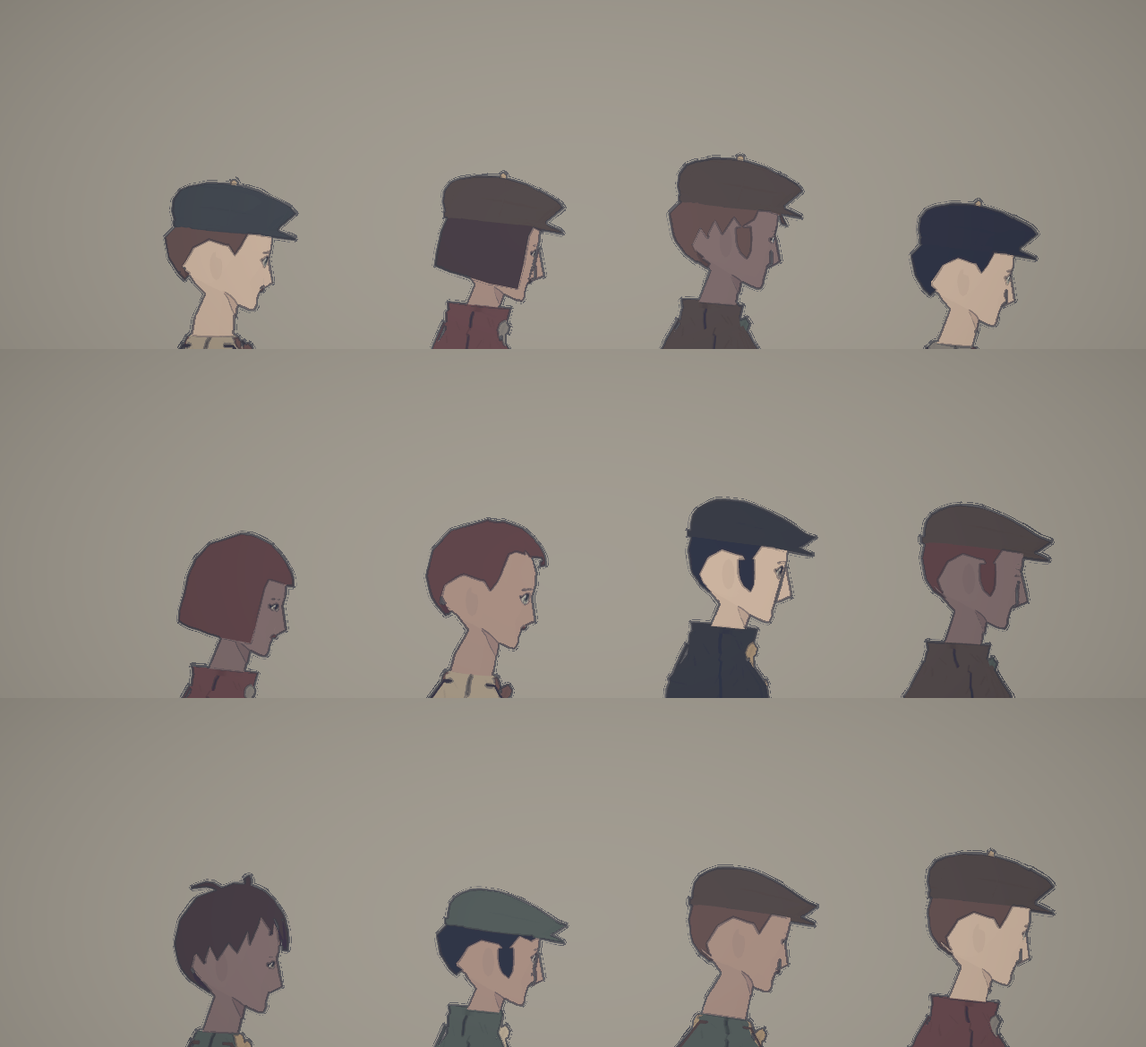
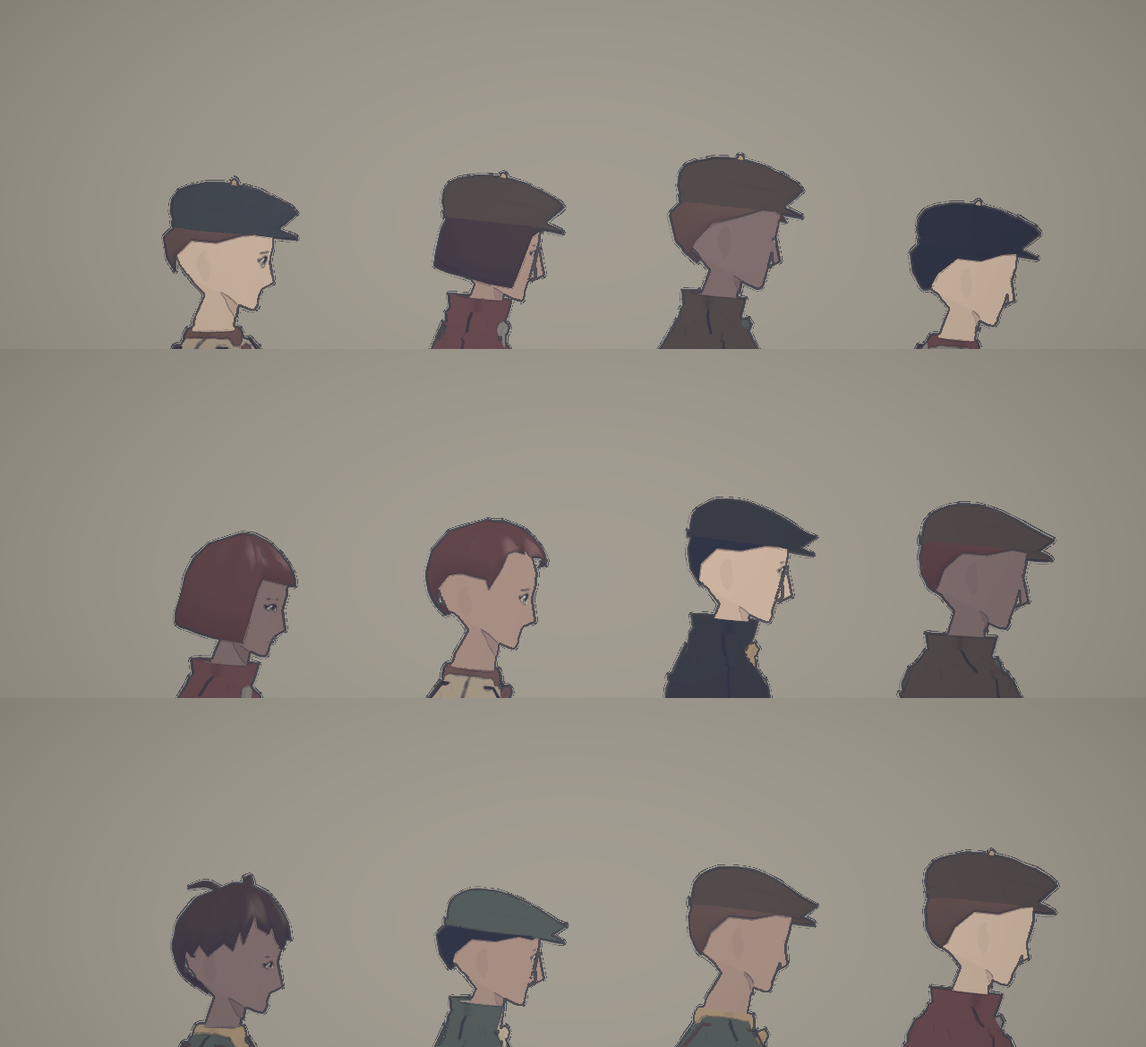
People VIII: ears that lie close with a tapering authored outline hinged on the skull (mirrored, not flipped), a jaw-to-temple outline with no ledge, fringes of authored locks, soft rounded temple hair under hats instead of sawteeth and slabs, a full connected moustache, and collars and neckerchiefs
Entire-Checkpoint: 01M48GH4EB03H9KRF4V42FP0H8

diff --git a/src/world/people/look.ts b/src/world/people/look.ts
@@ -28,7 +28,7 @@ export interface Look {
 export interface Outfit { id: string; /** palette id -> a swatch per slot of the cast */ palettes: Record<string, readonly Swatch[]> }
 export interface Cast {
   id: CastId; archetype: Archetype; families: readonly LookFamily[]; frames: readonly Frame[]; headShapes: readonly HeadShape[]; hair: readonly HairStyle[]; hairColours: readonly HairColour[];
-  hats: readonly Hat[]; facial: readonly Facial[]; outfits: readonly Outfit[];
+  hats: readonly Hat[]; /** facial hair with weights: a moustache or a beard belongs to a cast that wears one (Book 7), at a modest rate, never dealt to anyone at a third */ facial: readonly (readonly [Facial, number])[]; outfits: readonly Outfit[];
   /** what a palette's swatches colour, in order */ slots: readonly string[]; asymmetries: readonly string[]; elder?: boolean;
 }
 
@@ -47,48 +47,48 @@ const o = (id: string, palettes: Record<string, readonly Swatch[]>): Outfit => (
 
 /** The fourteen casts. A cast fixes a family and frame range, face and hair compatibility, a wardrobe, a palette range and its asymmetries. */
 export const CASTS: Record<CastId, Cast> = {
-  rowCoat: { id: 'rowCoat', archetype: 'resident', families: ['slim', 'standard'], frames: ['broad', 'narrow'], headShapes: allShapes, hair: ['shortCrop', 'sidePart', 'tousled', 'bob', 'lowBun', 'ponytail'], hairColours: young, hats: ['none', 'flatCap', 'softCap'], facial: ['none', 'sideburns', 'moustache'],
+  rowCoat: { id: 'rowCoat', archetype: 'resident', families: ['slim', 'standard'], frames: ['broad', 'narrow'], headShapes: allShapes, hair: ['shortCrop', 'sidePart', 'tousled', 'bob', 'lowBun', 'ponytail'], hairColours: young, hats: ['none', 'flatCap', 'softCap'], facial: [['none', 5], ['sideburns', 1]],
     slots: ['coat', 'waistcoat', 'trousers', 'cap', 'scarf'], asymmetries: ['unevenFront', 'scarfTail', 'pouchHip', 'sleeveRolled'],
     outfits: [o('rowCoat.open', { ash: ['slate', 'stone', 'charcoal', 'slate', 'oxblood'], umber: ['umber', 'mustard', 'slate', 'umber', 'greyGreen'], moss: ['greyGreen', 'canvas', 'umber', 'greyGreen', 'bone'] }),
       o('rowCoat.closed', { ash: ['charcoal', 'stone', 'umber', 'charcoal', 'mustard'], oxblood: ['oxblood', 'canvas', 'slate', 'umber', 'stone'], stone: ['stone', 'umber', 'slate', 'stone', 'oxblood'] })] },
-  rowSkirt: { id: 'rowSkirt', archetype: 'resident', families: ['slim', 'standard'], frames: ['narrow'], headShapes: allShapes, hair: ['lowBun', 'bob', 'ponytail', 'highKnot', 'longTied'], hairColours: young, hats: ['none', 'headscarf'], facial: ['none'],
+  rowSkirt: { id: 'rowSkirt', archetype: 'resident', families: ['slim', 'standard'], frames: ['narrow'], headShapes: allShapes, hair: ['lowBun', 'bob', 'ponytail', 'highKnot', 'longTied'], hairColours: young, hats: ['none', 'headscarf'], facial: [['none', 1]],
     slots: ['shawl', 'bodice', 'skirt', 'scarf'], asymmetries: ['scarfTail', 'pouchHip', 'apronTie'],
     outfits: [o('rowSkirt.shawl', { ash: ['slate', 'bone', 'umber', 'greyGreen'], plum: ['oxblood', 'cream', 'charcoal', 'bone'] }), o('rowSkirt.plain', { moss: ['greyGreen', 'bone', 'umber', 'mustard'], umber: ['umber', 'cream', 'slate', 'oxblood'] })] },
-  elder: { id: 'elder', archetype: 'resident', families: ['slim'], frames: ['broad', 'narrow'], headShapes: ['oval', 'long', 'square'], hair: ['balding', 'shortCrop', 'lowBun', 'sidePart'], hairColours: aged, hats: ['elderHat', 'softCap', 'none'], facial: ['none', 'moustache', 'beard'], elder: true,
+  elder: { id: 'elder', archetype: 'resident', families: ['slim'], frames: ['broad', 'narrow'], headShapes: ['oval', 'long', 'square'], hair: ['balding', 'shortCrop', 'lowBun', 'sidePart'], hairColours: aged, hats: ['elderHat', 'softCap', 'none'], facial: [['none', 4], ['moustache', 2], ['beard', 1]], elder: true,
     slots: ['coat', 'waistcoat', 'trousers', 'hat'], asymmetries: ['stick', 'basket', 'scarfTail'],
     outfits: [o('elder.longCoat', { ash: ['charcoal', 'stone', 'soot', 'charcoal'], umber: ['umber', 'bone', 'charcoal', 'umber'] })] },
-  affluent: { id: 'affluent', archetype: 'resident', families: ['slim', 'standard'], frames: ['broad', 'narrow'], headShapes: ['oval', 'long', 'heart'], hair: ['sweptBack', 'sidePart', 'lowBun', 'highKnot'], hairColours: young, hats: ['topHat', 'bonnet'], facial: ['none', 'moustache'],
+  affluent: { id: 'affluent', archetype: 'resident', families: ['slim', 'standard'], frames: ['broad', 'narrow'], headShapes: ['oval', 'long', 'heart'], hair: ['sweptBack', 'sidePart', 'lowBun', 'highKnot'], hairColours: young, hats: ['topHat', 'bonnet'], facial: [['none', 1]],
     slots: ['frock', 'waistcoat', 'trousers', 'hat', 'trim'], asymmetries: ['watchChain', 'unevenFront', 'gloveHeld'],
     outfits: [o('affluent.frock', { oxblood: ['burgundy', 'cream', 'soot', 'soot', 'mustard'], navy: ['navy', 'bone', 'charcoal', 'soot', 'ochre'] })] },
-  stallholder: { id: 'stallholder', archetype: 'merchant', families: ['standard', 'sturdy'], frames: ['broad', 'narrow'], headShapes: allShapes, hair: ['lowBun', 'bob', 'tousled'], hairColours: young, hats: ['headscarf', 'none'], facial: ['none'],
+  stallholder: { id: 'stallholder', archetype: 'merchant', families: ['standard', 'sturdy'], frames: ['broad', 'narrow'], headShapes: allShapes, hair: ['lowBun', 'bob', 'tousled'], hairColours: young, hats: ['headscarf', 'none'], facial: [['none', 1]],
     slots: ['blouse', 'skirt', 'apron', 'scarf'], asymmetries: ['apronTie', 'pouchHip', 'scarfTail'],
     outfits: [o('stallholder.apron', { ochre: ['cream', 'ochre', 'bone', 'burgundy'], wine: ['bone', 'burgundy', 'cream', 'mustard'] })] },
-  shopMerchant: { id: 'shopMerchant', archetype: 'merchant', families: ['standard', 'sturdy'], frames: ['broad', 'narrow'], headShapes: allShapes, hair: ['sidePart', 'shortCrop', 'balding'], hairColours: mid, hats: ['bowler', 'none'], facial: ['none', 'moustache', 'sideburns'],
+  shopMerchant: { id: 'shopMerchant', archetype: 'merchant', families: ['standard', 'sturdy'], frames: ['broad', 'narrow'], headShapes: allShapes, hair: ['sidePart', 'shortCrop', 'balding'], hairColours: mid, hats: ['bowler', 'none'], facial: [['none', 4], ['sideburns', 1]],
     slots: ['waistcoat', 'shirt', 'trousers', 'apron', 'hat'], asymmetries: ['watchChain', 'pencilEar', 'sleeveGarters'],
     outfits: [o('shopMerchant.waistcoat', { wine: ['burgundy', 'cream', 'charcoal', 'bone', 'soot'], ochre: ['mustard', 'bone', 'umber', 'cream', 'charcoal'] })] },
-  labourer: { id: 'labourer', archetype: 'worker', families: ['sturdy', 'standard'], frames: ['broad'], headShapes: allShapes, hair: ['shortCrop', 'tousled', 'sidePart'], hairColours: young, hats: ['flatCap', 'none', 'softCap'], facial: ['none', 'sideburns', 'moustache', 'beard'],
+  labourer: { id: 'labourer', archetype: 'worker', families: ['sturdy', 'standard'], frames: ['broad'], headShapes: allShapes, hair: ['shortCrop', 'tousled', 'sidePart'], hairColours: young, hats: ['flatCap', 'none', 'softCap'], facial: [['none', 4], ['sideburns', 1]],
     slots: ['shirt', 'trousers', 'braces', 'cap', 'kerchief'], asymmetries: ['pouchHip', 'ragBelt', 'braceDown'],
     outfits: [o('labourer.braced', { dust: ['canvas', 'umber', 'leatherDark', 'slate', 'rust'], soot: ['stone', 'charcoal', 'leatherDark', 'soot', 'oxblood'], moss: ['greyGreen', 'stone', 'leather', 'umber', 'mustard'] }),
       o('labourer.vested', { umber: ['bone', 'rust', 'oxblood', 'umber', 'greyGreen'], grey: ['canvas', 'slate', 'charcoal', 'stone', 'rust'] })] },
-  foundry: { id: 'foundry', archetype: 'worker', families: ['sturdy'], frames: ['broad', 'narrow'], headShapes: ['square', 'oval', 'long'], hair: ['shortCrop', 'tousled', 'balding'], hairColours: young, hats: ['kerchief', 'none'], facial: ['none', 'sideburns', 'beard'],
+  foundry: { id: 'foundry', archetype: 'worker', families: ['sturdy'], frames: ['broad', 'narrow'], headShapes: ['square', 'oval', 'long'], hair: ['shortCrop', 'tousled', 'balding'], hairColours: young, hats: ['kerchief', 'none'], facial: [['none', 4], ['sideburns', 1]],
     slots: ['shirt', 'trousers', 'apron', 'kerchief'], asymmetries: ['gauntletTucked', 'gogglesUp', 'pouchHip'],
     outfits: [o('foundry.apron', { soot: ['charcoal', 'soot', 'leather', 'rust'], umber: ['umber', 'charcoal', 'leatherDark', 'oxblood'] })] },
-  youngMechanic: { id: 'youngMechanic', archetype: 'engineer', families: ['slim', 'standard'], frames: ['broad', 'narrow'], headShapes: allShapes, hair: ['tousled', 'sweptBack', 'shortCrop', 'ponytail'], hairColours: young, hats: ['softCap', 'none'], facial: ['none', 'sideburns'],
+  youngMechanic: { id: 'youngMechanic', archetype: 'engineer', families: ['slim', 'standard'], frames: ['broad', 'narrow'], headShapes: allShapes, hair: ['tousled', 'sweptBack', 'shortCrop', 'ponytail'], hairColours: young, hats: ['softCap', 'none'], facial: [['none', 4], ['sideburns', 1]],
     slots: ['jacket', 'shirt', 'trousers', 'roll', 'cap'], asymmetries: ['toolRoll', 'gogglesUp', 'ragBelt'],
     outfits: [o('youngMechanic.jacket', { slate: ['slate', 'bone', 'charcoal', 'leather', 'slate'], moss: ['greyGreen', 'cream', 'umber', 'leatherDark', 'greyGreen'] })] },
-  olderMechanic: { id: 'olderMechanic', archetype: 'engineer', families: ['standard', 'sturdy'], frames: ['broad', 'narrow'], headShapes: allShapes, hair: ['balding', 'shortCrop'], hairColours: ['iron', 'umber', 'soot'], hats: ['flatCap', 'none'], facial: ['moustache', 'beard', 'sideburns'],
+  olderMechanic: { id: 'olderMechanic', archetype: 'engineer', families: ['standard', 'sturdy'], frames: ['broad', 'narrow'], headShapes: allShapes, hair: ['balding', 'shortCrop'], hairColours: ['iron', 'umber', 'soot'], hats: ['flatCap', 'none'], facial: [['moustache', 3], ['none', 2], ['beard', 1]],
     slots: ['shopCoat', 'shirt', 'trousers', 'cap'], asymmetries: ['spectacles', 'pencilEar', 'ragBelt'],
     outfits: [o('olderMechanic.shopCoat', { canvas: ['canvas', 'bone', 'umber', 'umber'], slate: ['slate', 'cream', 'charcoal', 'slate'] })] },
-  courier: { id: 'courier', archetype: 'courier', families: ['slim'], frames: ['broad', 'narrow'], headShapes: allShapes, hair: ['shortCrop', 'tousled', 'ponytail', 'bob'], hairColours: young, hats: ['softCap'], facial: ['none', 'sideburns'],
+  courier: { id: 'courier', archetype: 'courier', families: ['slim'], frames: ['broad', 'narrow'], headShapes: allShapes, hair: ['shortCrop', 'tousled', 'ponytail', 'bob'], hairColours: young, hats: ['softCap'], facial: [['none', 1]],
     slots: ['jacket', 'shirt', 'trousers', 'satchel', 'scarf', 'cap'], asymmetries: ['satchelStrap', 'scarfTail'],
     outfits: [o('courier.jacket', { oxblood: ['oxblood', 'bone', 'charcoal', 'leather', 'mustard', 'umber'], slate: ['slate', 'cream', 'soot', 'leather', 'oxblood', 'slate'] })] },
-  garrison: { id: 'garrison', archetype: 'guard', families: ['standard', 'sturdy'], frames: ['broad'], headShapes: ['square', 'oval', 'long'], hair: ['shortCrop'], hairColours: mid, hats: ['kepi'], facial: ['none', 'moustache', 'sideburns'],
+  garrison: { id: 'garrison', archetype: 'guard', families: ['standard', 'sturdy'], frames: ['broad'], headShapes: ['square', 'oval', 'long'], hair: ['shortCrop'], hairColours: mid, hats: ['kepi'], facial: [['none', 4], ['moustache', 1], ['sideburns', 1]],
     slots: ['greatcoat', 'trousers', 'crossbelt', 'kepi'], asymmetries: ['crossbelt'],
     outfits: [o('garrison.greatcoat', { ordinance: ['greenCharcoal', 'soot', 'leatherDark', 'greenCharcoal'] })] },
-  inspector: { id: 'inspector', archetype: 'ordinal', families: ['slim', 'standard'], frames: ['broad'], headShapes: ['square', 'long', 'oval'], hair: ['shortCrop', 'sweptBack', 'sidePart'], hairColours: mid, hats: ['helm', 'none'], facial: ['none', 'moustache'],
+  inspector: { id: 'inspector', archetype: 'ordinal', families: ['slim', 'standard'], frames: ['broad'], headShapes: ['square', 'long', 'oval'], hair: ['shortCrop', 'sweptBack', 'sidePart'], hairColours: mid, hats: ['helm', 'none'], facial: [['none', 5], ['moustache', 1]],
     slots: ['coat', 'trousers', 'collar', 'helm', 'armband'], asymmetries: ['armband', 'ledger'],
     outfits: [o('inspector.coat', { ordinance: ['greenCharcoal', 'soot', 'oxblood', 'soot', 'oxblood'] })] },
-  child: { id: 'child', archetype: 'resident', families: ['child'], frames: ['narrow'], headShapes: ['oval', 'heart'], hair: ['tousled', 'bob', 'shortCrop'], hairColours: young, hats: ['softCap', 'none'], facial: ['none'],
+  child: { id: 'child', archetype: 'resident', families: ['child'], frames: ['narrow'], headShapes: ['oval', 'heart'], hair: ['tousled', 'bob', 'shortCrop'], hairColours: young, hats: ['softCap', 'none'], facial: [['none', 1]],
     slots: ['coat', 'shirt', 'trousers', 'cap'], asymmetries: ['scarfTail'],
     outfits: [o('child.coat', { ash: ['slate', 'bone', 'umber', 'slate'], rust: ['rust', 'cream', 'charcoal', 'rust'] })] },
 };
@@ -140,7 +140,7 @@ export function resolveLook(seed: number, archetype: Archetype, opts: LookOpts =
   const stature = Math.round((.96 + .08 * unit(seed, S.stature)) * 1000) / 1000, skin = Math.floor(unit(seed, S.skin) * 3) as 0 | 1 | 2;
   const headShape = pick(cast.headShapes, seed, S.shape), faceType = pick(FACE_ROWS[headShape], seed, S.face);
   const hat = pick(cast.hats, seed, S.hat), hairStyle = pick(cast.hair.filter(h => HAT_HAIR[hat].includes(h)), seed, S.hair), hairColour = pick(cast.hairColours, seed, S.hairColour);
-  const facial = pick(cast.facial, seed, S.facial), outfit = pick(cast.outfits, seed, S.outfit), pal = pick(Object.keys(outfit.palettes), seed, S.palette);
+  const facial = weighted(cast.facial, seed, S.facial), outfit = pick(cast.outfits, seed, S.outfit), pal = pick(Object.keys(outfit.palettes), seed, S.palette);
   const n = Math.min(cast.asymmetries.length, 1 + Math.floor(unit(seed, S.asymCount) * 2)), pool2 = [...cast.asymmetries], asymmetries: string[] = [];
   for (let i = 0; i < n; i++) asymmetries.push(pool2.splice(Math.floor(unit(seed, S.asym + 100 * i) * pool2.length), 1)[0]);
   return { cast: cast.id, family, frame, stature, skin, headShape, faceType, hairStyle, hairColour, hat, facial, outfit: outfit.id, palette: pal, asymmetries };
@@ -158,7 +158,7 @@ export function invalid(look: Look): string | undefined {
   if (look.stature < .96 || look.stature > 1.04) return 'stature'; if (![0, 1, 2].includes(look.skin)) return 'skin';
   if (!c.headShapes.includes(look.headShape)) return 'headShape'; if (!FACE_ROWS[look.headShape].includes(look.faceType)) return 'faceType';
   if (!c.hats.includes(look.hat)) return 'hat'; if (!c.hair.includes(look.hairStyle)) return 'hair not in cast'; if (!HAT_HAIR[look.hat].includes(look.hairStyle)) return `hat ${look.hat} does not suit hair ${look.hairStyle}`;
-  if (!c.hairColours.includes(look.hairColour)) return 'hairColour'; if (!c.facial.includes(look.facial)) return 'facial';
+  if (!c.hairColours.includes(look.hairColour)) return 'hairColour'; if (!c.facial.some(([f]) => f === look.facial)) return 'facial';
   const outfit = c.outfits.find(x => x.id === look.outfit); if (!outfit) return 'outfit'; if (!outfit.palettes[look.palette]) return 'palette';
   if (look.asymmetries.length < 1 || look.asymmetries.length > 2 || look.asymmetries.some(a => !c.asymmetries.includes(a)) || new Set(look.asymmetries).size !== look.asymmetries.length) return 'asymmetries';
   return undefined;

diff --git a/src/world/people/hair.ts b/src/world/people/hair.ts
@@ -36,12 +36,16 @@ export function contour(pts: readonly CP[]): Contour {
 }
 /** The same contour on both sides: points for angles 0..pi, mirrored. */
 const sym = (pts: CP[]) => contour([...pts, ...pts.filter(p => p[0] > 0 && p[0] < A).map(([a, y, k]) => [-a, y, k] as CP)]);
-/** Points for a row of pointed locks along the hairline between angles a0 and a1 (a1 > a0): notches at `notch`, tips at `tips`, each tip leaning by `lean` (a fraction of its width)
- *  toward the +a end. */
-const teeth = (a0: number, a1: number, notch: number, tips: number[], lean = 0, widths: number[] = tips.map(() => 1)): CP[] => {
-  const n = tips.length, tot = widths.reduce((p, q) => p + q, 0), out: CP[] = []; let x = a0;
-  for (let i = 0; i < n; i++) { const w = (a1 - a0) * widths[i] / tot; out.push([x, notch, 1]); out.push([x + (.5 + lean * .45) * w, tips[i], 1]); x += w; }
-  out.push([a1, notch, 1]); return out;
+/** A fringe of a few authored locks between angles a0 and a1 (a1 > a0), each [width (radians), length], all flowing one way (`flow` +1 toward +a, -1 toward -a): a lock runs
+ *  from its root along a long curved flank to a tip that sits toward the flow, then turns back up a short flank under the next lock, so the edge reads as locks with curved,
+ *  hooked tips and not as a row of even triangles. */
+const fringeLocks = (a0: number, a1: number, notch: number, locks: [number, number][], flow: number): CP[] => {
+  // a lock's edge, root to tip, as [across, down]: the locks overlap, so the notch between two is a short narrow V at .55 of a lock's length; the flank is a convex arc
+  const up: [number, number, number][] = [.12, .26, .4, .54, .67].map(t => [t, .55 + .45 * Math.sin(t / .82 * Math.PI / 2), 0] as [number, number, number]);
+  const prof: [number, number, number][] = [...up, [.82, 1, 1]], tot = locks.reduce((p, q) => p + q[0], 0), out: CP[] = [];
+  let x = a0; out.push([a0, notch, 1]);
+  locks.forEach(([w0, len], i) => { const w = (a1 - a0) * w0 / tot; for (const [t, f, k] of prof) out.push([x + (flow > 0 ? t : 1 - t) * w, notch - len * f, k]); x += w; out.push([x, i === locks.length - 1 ? notch : notch - len * .55, 1]); });
+  return out; // (contour() sorts the points by angle)
 };
 /** The mirror image of a contour's points (for a parting on the other side). */
 const flip = (pts: CP[], sg: number): CP[] => sg > 0 ? pts : pts.map(([a, y, k]) => [Math.abs(Math.abs(a) - A) < 1e-9 ? a : -a, y, k] as CP);
@@ -80,7 +84,12 @@ function shell(c: Ctx, o: ShellOpts): { outer: T.BufferGeometry; wall: T.BufferG
     const base = at(c, a, y, 0, o.hang), d = dirOf(c, base.p), off = onScalp ? .0015 : Math.max(.002, o.off(d, s, a, y));
     return at(c, a, y, off, onScalp ? -1 : o.hang).p;
   };
-  for (let j = 0; j <= Rw; j++) for (let i = 0; i <= C; i++) { const a = cols[i], p = vert(a, j / Rw); pos.push(p.x, p.y, p.z); uv.push(i / C, j / Rw); }
+  // tone, baked into the colour the crowd batch already carries (citizens.ts bakeCharacter reads `tint`): a broken angel ring of sheen in a lighter value of the hair colour round the
+  // upper head, and the underside of the mass darkening toward its edges and the nape, so the parting, the fringe and the crown read as volume and not as a cut-out
+  const tint: number[] = [];
+  for (let j = 0; j <= Rw; j++) for (let i = 0; i <= C; i++) { const a = cols[i], p = vert(a, j / Rw); pos.push(p.x, p.y, p.z); uv.push(i / C, j / Rw);
+    const d = dirOf(c, p), ring = sm(d.y, .5, .6) * (1 - sm(d.y, .7, .8)) * sm(Math.cos(a), -.35, .25) * sm(Math.cos(a * 7 + .6), -.15, .45), under = (1 - sm(j / Rw, 0, .5)) * .7 + .35 * sm(-d.z, .3, 1) * (1 - sm(d.y, 0, .5));
+    tint.push(ring > .04 ? ring : -Math.min(1, under)); }
   for (let j = 0; j < Rw; j++) for (let i = 0; i < C; i++) { const p = j * (C + 1) + i, q = p + C + 1; idx.push(p, p + 1, q, p + 1, q + 1, q); }
   // walls: the outer edge row joined back to the scalp
   const wall = (s: number, flip: boolean) => {
@@ -89,7 +98,7 @@ function shell(c: Ctx, o: ShellOpts): { outer: T.BufferGeometry; wall: T.BufferG
     for (let i = 0; i < C; i++) { const p = b + i * 2, q = p + 2; if (flip) wi.push(p, p + 1, q, q, p + 1, q + 1); else wi.push(p, q, p + 1, q, q + 1, p + 1); }
   };
   wall(0, false); if (o.wallTop) wall(1, true);
-  const g = new T.BufferGeometry(); g.setAttribute('position', new T.Float32BufferAttribute(pos, 3)); g.setAttribute('uv', new T.Float32BufferAttribute(uv, 2)); g.setIndex(idx); g.computeVertexNormals();
+  const g = new T.BufferGeometry(); g.setAttribute('position', new T.Float32BufferAttribute(pos, 3)); g.setAttribute('uv', new T.Float32BufferAttribute(uv, 2)); g.setAttribute('tint', new T.Float32BufferAttribute(tint, 1)); g.setIndex(idx); g.computeVertexNormals();
   if (closed) { const nr = g.attributes.normal as T.BufferAttribute; for (let j = 0; j <= Rw; j++) { const i0 = j * (C + 1), i1 = i0 + C, x = nr.getX(i0) + nr.getX(i1), y = nr.getY(i0) + nr.getY(i1), z = nr.getZ(i0) + nr.getZ(i1), l = Math.hypot(x, y, z) || 1; nr.setXYZ(i0, x / l, y / l, z / l); nr.setXYZ(i1, x / l, y / l, z / l); } }
   const w = new T.BufferGeometry(); w.setAttribute('position', new T.Float32BufferAttribute(wp, 3)); w.setAttribute('uv', new T.Float32BufferAttribute(new Float32Array(wp.length / 3 * 2), 2)); w.setIndex(wi); w.computeVertexNormals();
   return { outer: g, wall: w };
@@ -131,31 +140,33 @@ const S: Record<HairStyle, Mk> = {
   /** Short back and sides, a little length on top pushed forward into a short broken fringe: a flat, squared top over tight sides, the ears and temples clear, four clumps at the
    *  nape. */
   shortCrop: sg => ({
-    low: contour([...teeth(-1.0, 1.0, .238, sg > 0 ? [.226, .214, .207, .213, .205, .222] : [.222, .205, .213, .207, .214, .226], -.6 * sg, sg > 0 ? [1.2, .8, 1.1, .9, 1.3, .7] : [.7, 1.3, .9, 1.1, .8, 1.2]),
-      ...sides([[1.1, .232], [1.22, .19], [1.3, .16], [1.38, .136, 1], [1.5, .158], [1.8, .166], [2.1, .142], [2.45, .1], [2.62, .07, 1], [2.78, .088, 1], [2.96, .06, 1], [A, .074]])]),
+    // four short locks of uneven width pushed forward and swept away from the parting; behind the ear the hairline stays up, so skin shows round the ear
+    low: contour([...fringeLocks(-1.0, 1.0, .24, ([[.62, .024], [.48, .03], [.52, .026], [.38, .018]] as [number, number][])[sg > 0 ? 'slice' : 'reverse'](), -sg),
+      ...sides([[1.1, .234], [1.22, .19], [1.32, .168], [1.39, .14, 1], [1.46, .165], [1.8, .17], [2.05, .162], [2.3, .13], [2.5, .098], [2.62, .07, 1], [2.78, .088, 1], [2.96, .06, 1], [A, .074]])]),
     off: d => .005 + .024 * sm(d.y, .32, .66) + front(d, .008) + .002 * sm(-d.z, .2, .8) * (1 - sm(d.y, 0, .4)),
   }),
   /** A side parting: the hair is combed from the parting over the top into a rounded rise above the far temple and a long swoop of fringe across the forehead, in two points; the
    *  parting side lies flat and shows the temple. Tidy above the ears, a rounded back of the head over a tapered nape. */
   sidePart: sg => ({
-    low: contour(flip([[.18, .23], [.3, .25, 1], [.4, .236, 1], [.8, .24], [1.05, .232], [1.2, .2], [1.3, .162], [1.4, .138, 1], [1.52, .16], [1.8, .168], [2.1, .145], [2.45, .105], [2.62, .078, 1], [2.8, .092, 1], [2.98, .072, 1], [A, .084],
-      [0, .222], [-.16, .206, 1], [-.26, .216, 1], [-.5, .2], [-.72, .184], [-.86, .176, 1], [-.95, .196, 1], [-1.08, .206], [-1.22, .18], [-1.32, .16], [-1.42, .14, 1], [-1.55, .158], [-1.82, .162], [-2.1, .14], [-2.45, .1], [-2.62, .078, 1], [-2.8, .092, 1], [-2.98, .072, 1]], sg)),
+    low: contour(flip([[.18, .23], [.3, .25, 1], [.4, .236, 1], [.8, .24], [1.05, .232], [1.2, .2], [1.32, .168], [1.4, .142, 1], [1.47, .165], [1.8, .17], [2.05, .162], [2.3, .13], [2.5, .1], [2.62, .078, 1], [2.8, .092, 1], [2.98, .072, 1], [A, .084],
+      [0, .222], [-.16, .206, 1], [-.26, .216, 1], [-.5, .2], [-.72, .184], [-.86, .176, 1], [-.95, .196, 1], [-1.08, .206], [-1.22, .18], [-1.33, .166], [-1.41, .142, 1], [-1.48, .164], [-1.8, .168], [-2.05, .16], [-2.3, .13], [-2.5, .1], [-2.62, .078, 1], [-2.8, .092, 1], [-2.98, .072, 1]], sg)),
     roots: a => sm(a * sg, -.05, .2) * (1 - sm(Math.abs(a), 1.2, 1.4)),
     off: d => .01 + lobe(-.75 * sg, .55, .35, .028, .5)(d) + lobe(-.2 * sg, .95, .15, .012, .65)(d) + lobe(0, .15, -1, .022, .7)(d) - .009 * parting(d, .36 * sg) - .004 * Math.max(0, d.x * sg - .4) * sm(d.y, .2, .6) + front(d, .007) - .006 * sm(-d.x * sg, .55, .8) * (1 - sm(d.y, .25, .45)),
   }),
   /** Combed straight back from a bare forehead with a small peak: a lift behind the hairline, the hair running back over the crown and over the tops of the ears to the collar, where
    *  it turns out in a few pieces. No fringe. */
   sweptBack: () => ({
-    low: sym([[0, .229, 1], [.16, .236], [.5, .236], [.82, .242], [1.02, .232], [1.18, .19], [1.3, .16], [1.38, .145, 1], [1.5, .166], [1.8, .17], [2.1, .13], [2.38, .09], [2.56, .066], [2.7, .042, 1], [2.86, .062, 1], [3.0, .036, 1], [A, .05]]),
+    low: sym([[0, .229, 1], [.16, .236], [.5, .236], [.82, .242], [1.02, .232], [1.18, .19], [1.32, .168], [1.39, .148, 1], [1.46, .168], [1.8, .17], [2.1, .13], [2.38, .09], [2.56, .066], [2.7, .042, 1], [2.86, .062, 1], [3.0, .036, 1], [A, .05]]),
     hang: .1,
     off: d => .012 + lobe(0, .62, .78, .04, .42)(d) + lobe(0, .95, .2, .012, .7)(d) + lobe(0, -.25, -1, .026, .6)(d) + lobe(1, .45, .05, .006, .4)(d) + lobe(-1, .45, .05, .006, .4)(d) + .004 * sm(d.y, -.2, .3) * sm(-d.z, .2, .8),
     roots: a => 1 - sm(Math.abs(a), 1.25, 1.5),
   }),
   /** Untidy: a full top that rises off the crown, a broken fringe of uneven points falling to the brows, points that stick out over the ears and at the nape. */
   tousled: sg => ({
-    low: contour([...teeth(-1.05, 1.05, .23, sg > 0 ? [.205, .176, .194, .168, .19, .2] : [.2, .19, .168, .194, .176, .205], -.5 * sg, sg > 0 ? [1, 1.3, .8, 1.2, .9, 1.1] : [1.1, .9, 1.2, .8, 1.3, 1]),
-      ...sides([[1.12, .215], [1.24, .172, 1], [1.33, .2, 1], [1.46, .148, 1], [1.58, .17, 1], [1.72, .128, 1], [1.86, .158, 1], [2.0, .118, 1], [2.14, .136], [2.4, .1], [2.58, .066, 1], [2.72, .088, 1], [2.88, .05, 1], [3.02, .078, 1], [A, .06, 1]])]),
-    off: d => .016 + lobe(.25 * sg, .9, .25, .03, .5)(d) + lobe(-.45 * sg, .62, -.45, .022, .45)(d) + lobe(1, .25, 0, .016, .4)(d) + lobe(-1, .25, 0, .016, .4)(d) + lobe(0, -.05, -1, .014, .6)(d) + front(d, .006),
+    // five looser locks of uneven width and length, all falling one way
+    low: contour([...fringeLocks(-1.05, 1.05, .232, ([[.36, .034], [.5, .054], [.4, .04], [.46, .06], [.38, .03]] as [number, number][])[sg > 0 ? 'slice' : 'reverse'](), -sg),
+      ...sides([[1.12, .215], [1.24, .174, 1], [1.33, .2, 1], [1.42, .156, 1], [1.56, .172], [1.74, .136, 1], [1.9, .16], [2.06, .13, 1], [2.2, .142], [2.4, .1], [2.58, .066, 1], [2.72, .088, 1], [2.88, .05, 1], [3.02, .078, 1], [A, .06, 1]])]),
+    off: d => .016 + lobe(.25 * sg, .9, .25, .03, .5)(d) + lobe(-.45 * sg, .62, -.45, .022, .45)(d) + lobe(1, .35, 0, .01, .4)(d) + lobe(-1, .35, 0, .01, .4)(d) + lobe(0, -.05, -1, .014, .6)(d) + front(d, .006),
     fringe: [[[.2 * sg, .282, .024, .02], [-.2 * sg, .292, .05, .018, .008], [-.5 * sg, .286, .068, .006, .004]], [[A - .5 * sg, .276, .026, .022], [A - .38 * sg, .268, .052, .02, .008], [A - .28 * sg, .25, .066, .006, .004]]],
   }),
   /** A chin-length bob: a blunt fringe cut straight across above the brows, sides falling straight past the cheeks to the jaw and turning under, a bell that is widest at the
@@ -231,6 +242,9 @@ export function hairOf(look: Look, h: number, hatted: boolean): HairOut {
     const cut = (a: number) => seat(a) + .006;
     // (the points of the hairline that the hat covers are dropped: the shell under a hat is a narrow band and needs few columns)
     top = Object.assign((a: number) => Math.min(st.top ? st.top(a) : 1, cut(a)), { keys: st.top?.keys?.filter(a => st.top!(a) < seat(a)) }); low = Object.assign((a: number) => Math.min(st.low(a), cut(a) - .004), { keys: st.low.keys?.filter(a => st.low(a) < seat(a) - .004) });
+    // what shows under the hat is soft: the sawtooth of the style's temples is blurred away into one rounded edge that follows the head
+    const raw = low, blur = (a: number) => { let t = 0; for (let i = -4; i <= 4; i++) t += raw(a + i * .07); return t / 9; };
+    low = Object.assign((a: number) => Math.min(raw(a), blur(a) + .008, cut(a) - .004), { keys: [] as number[] });
     const o1 = off; off = (d, s, a, y) => { const f = sm(y, seat(a) - .03, seat(a) - .004), v = o1(d, s, a, y); return v * (1 - f) + Math.min(v, .006) * f; };
   }
   const sh = shell(c, { low, top, off, hang: st.hang, cols: seat ? 16 : st.cols, rows: seat ? 3 : st.rows, a0: st.a0, a1: st.a1, wallTop: st.wallTop || !!seat });

diff --git a/src/world/people/head.ts b/src/world/people/head.ts
@@ -1,5 +1,5 @@
 import * as T from 'three';
-import { loft, surface, ringAt, ringPoint, sweep, merge, shared, type Ring, type SweepPt } from './loft';
+import { loft, surface, ringAt, ringPoint, mirrorX, sweep, merge, shared, type Ring, type SweepPt } from './loft';
 import type { Look, HeadShape } from './look';
 import { skullTable, landmarks } from './headform';
 
@@ -64,14 +64,21 @@ export function skull(look: Look, h: number): T.BufferGeometry {
   });
 }
 
-/** Ears (Book 6): flat shaped plates on the side plane, in its back lower quarter, behind the depth midline and tilted back; the top near the brow line, the bottom near the nose base. */
+/** Ears (Book 6): in the back lower quarter of the side plane, behind the depth midline, from just under the brow line to about the nose base. Each is an authored outline (a helix
+ *  wider at the top, narrowing down the back to a soft lobe, a notch for the tragus in front) with a thickness, hinged at its front edge on the side of the skull and flared out about
+ *  twenty degrees, so from the front an ear is a small tapering shape whose lobe tucks back into the jaw line, not a tab or a notch in the outline. */
+const EAR: [number, number][] = [[.08, .12], [.0, .36], [.03, .55], [.1, .82], [.3, .98], [.55, 1], [.8, .9], [.95, .7], [.92, .48], [.76, .3], [.55, .14], [.36, .02], [.2, 0]];
 export function ear(side: number, h: number, shape: HeadShape = 'oval'): T.BufferGeometry {
   return shared(`ear/${side}/${h}/${shape}`, () => {
-    const L = landmarks(h, shape), top = .5 * h, bot = .245 * h, cy = (top + bot) / 2, ry = (top - bot) / 2, rx = .0125 * h / .285 * 1.05, cz = L.earZ, rg = skullRings(shape, h), s = new T.Shape(), rc = ringAt(rg, cy); let x0 = rc.w; { let lo = Math.PI / 2, hi = Math.PI; for (let i = 0; i < 30; i++) { const m = (lo + hi) / 2, q = ringPoint(rc, m); if (q[2] > cz) lo = m; else hi = m; } x0 = ringPoint(rc, lo)[0]; }
-    const pts: [number, number][] = Array.from({ length: 12 }, (_, i) => { const t = i / 12 * Math.PI * 2; return [cz + Math.cos(t) * rx - Math.sin(t) * ry * .12, cy + Math.sin(t) * ry + (Math.sin(t) < 0 ? .003 : 0)]; });
-    pts.forEach(([z, y], i) => { const x = -z * side; i ? s.lineTo(x, y) : s.moveTo(x, y); }); s.closePath();
-    const g = new T.ExtrudeGeometry(s, { depth: .005 * h / .285, bevelEnabled: true, bevelThickness: .0025 * h / .285, bevelSize: .0025 * h / .285, bevelSegments: 1, curveSegments: 3 });
-    g.rotateY(side * Math.PI / 2); g.translate(side * (x0 - .004 * h / .285), 0, 0); if (side < 0) g.translate(-.005 * h / .285, 0, 0); g.rotateY(side * -.12); return g;
+    const L = landmarks(h, shape), k = h / .285, top = .5 * h, bot = .245 * h, W = .034 * k, Hh = top - bot, flare = .36, rg = skullRings(shape, h), zFront = L.earZ + W * .45;
+    // the skull's side where the ear's front edge meets it
+    const rc = ringAt(rg, bot + Hh * .45); let lo = Math.PI / 2, hi = Math.PI; for (let i = 0; i < 30; i++) { const m = (lo + hi) / 2, q = ringPoint(rc, m); if (q[2] > zFront) lo = m; else hi = m; } const x0 = ringPoint(rc, lo)[0];
+    const s = new T.Shape(); EAR.forEach(([u, v], i) => { i ? s.lineTo(u * W, v * Hh) : s.moveTo(u * W, v * Hh); }); s.closePath();
+    const t = .0045 * k, g = new T.ExtrudeGeometry(s, { depth: t, bevelEnabled: true, bevelThickness: .0018 * k, bevelSize: .0018 * k, bevelSegments: 1, curveSegments: 2 });
+    g.translate(0, 0, -t / 2);
+    // local x runs back from the front edge, y up, z through the ear's thickness; turned to run back along the head and flared out at the back
+    const X = new T.Vector3(Math.sin(flare), 0, -Math.cos(flare)), Y = new T.Vector3(0, 1, 0), Z = new T.Vector3().crossVectors(X, Y);
+    g.applyMatrix4(new T.Matrix4().makeBasis(X, Y, Z).setPosition(x0 - .003 * k, bot, zFront)); g.computeVertexNormals(); return side > 0 ? g : mirrorX(g);
   });
 }
 
@@ -112,8 +119,9 @@ const sm = (a: number, lo: number, hi: number) => T.MathUtils.smoothstep(a, lo, 
 /** Facial hair: attached to the lip and jaw, never painted. */
 export function facialOf(look: Look, h: number): T.BufferGeometry[] {
   const k = h / .285, rings = skullRings(look.headShape, h), out: T.BufferGeometry[] = [];
-  // a moustache in two tapered halves parted at the philtrum, drooping a little at the ends, on the upper lip and well clear of the painted mouth
-  if (look.facial === 'moustache') for (const s of [-1, 1]) out.push(strand(rings, [[s * .03, .058, .005, .0036], [s * .11, .0572, .0055, .0032], [s * .18, .0535, .0045, .0022], [s * .22, .0495, .003, .0008]].map(([a, y, o, w]) => [a, y * k, o * k, w * k]), .0028 * k, 4));
+  // a moustache: a full shape over the whole upper lip, wider than the nose and following the lip down to the mouth's corners, in two halves that meet at the philtrum and taper
+  // to their ends; it sits on the lip, clear above the painted mouth
+  if (look.facial === 'moustache') for (const s of [-1, 1]) out.push(strand(rings, [[s * .0, .0545, .0072, .0095], [s * .1, .0535, .0082, .0088], [s * .2, .0485, .0068, .0062], [s * .3, .0425, .0038, .002]].map(([a, y, o, w]) => [a, y * k, o * k, w * k]), .0052 * k, 4));
   if (look.facial === 'sideburns') for (const s of [-1, 1]) out.push(strand(rings, [[s * 1.42, .15, .006, .016], [s * 1.38, .115, .008, .017], [s * 1.34, .075, .006, .014]].map(([a, y, o, w]) => [a, y * k, o * k, w * k]), .007 * k));
   if (look.facial === 'beard') out.push(patch(rings, { a0: -1.55, a1: 1.55, cols: 16, rows: 3, low: () => .0, top: a => (.058 + .03 * sm(Math.abs(a), .9, 1.5)) * k, off: (s, a) => (.007 + .004 * Math.cos(a)) * k }));
   return out;

diff --git a/src/world/citizens.ts b/src/world/citizens.ts
@@ -80,6 +80,10 @@ function bakeCharacter(group:T.Group,cloth:T.Material=coloredToon){
     geometry.setAttribute('color',new T.BufferAttribute(colors,3));
     const restored=new T.Color(object.material.userData.restoredColor??color),late=new Float32Array(colors.length);
     for(let i=0;i<late.length;i+=3){late[i]=restored.r;late[i+1]=restored.g;late[i+2]=restored.b;}
+    // hair carries a baked tone (people/hair.ts): a sheen toward a lighter value of its own colour where `tint` > 0, a darker underside where it is < 0; consumed here, so every
+    // geometry in a batch keeps the same attributes
+    const tint=geometry.attributes.tint as T.BufferAttribute|undefined;
+    if(tint){for(const arr of [colors,late])for(let i=0;i<tint.count;i++){const t=tint.getX(i);for(let c=0;c<3;c++){const v=arr[i*3+c];arr[i*3+c]=t>0?v+(Math.min(1,v*1.9+.05)-v)*t*.6:v*(1+t*.32);}}geometry.deleteAttribute('tint');}
     geometry.setAttribute('restoredColor',new T.BufferAttribute(late,3));object.geometry=geometry;object.material=object.material.userData.plain?plainToon:cloth;
   });return bake(group);
 }
@@ -185,7 +189,9 @@ function paintFace(c: Ctx, f: FaceType, col: number) {
   for (const side of [-1, 1]) { paintEye(c, f, side, col); paintBrow(c, f, side, col < 8 ? col : 0); }
   // Nose: halfway between the tops of the eyes and the chin.
   c.strokeStyle = 'rgba(150,96,88,.75)'; c.lineWidth = 2.6; c.fillStyle = 'rgba(150,96,88,.75)';
-  if (f.nose === 'dash') { c.beginPath(); c.moveTo(259, 352); c.lineTo(256, 359); c.stroke(); }
+  // the new faces: the nose is the built wedge, marked only by one light stroke down its shaded side; nothing under it that could read as hair, the mouth line well below
+  if (f.calm) { c.strokeStyle = 'rgba(150,96,88,.45)'; c.lineWidth = 2.2; c.beginPath(); c.moveTo(264, 334); c.quadraticCurveTo(266, 348, 262, 356); c.stroke(); }
+  else if (f.nose === 'dash') { c.beginPath(); c.moveTo(259, 352); c.lineTo(256, 359); c.stroke(); }
   if (f.nose === 'dot') { c.beginPath(); c.ellipse(257, 356, 2.8, 2.2, 0, 0, Math.PI * 2); c.fill(); }
   if (f.nose === 'hook') { c.beginPath(); c.moveTo(262, 340); c.quadraticCurveTo(266, 354, 256, 360); c.stroke(); }
   if (f.nose === 'button') { c.beginPath(); c.moveTo(251, 354); c.quadraticCurveTo(257, 361, 263, 354); c.stroke(); }

diff --git a/src/world/people/figure.ts b/src/world/people/figure.ts
@@ -76,7 +76,7 @@ export function buildFigure(want: Look, opts: FigureOpts, kit: Kit) {
     kerchiefBand(lifted, neckR, neckM);
   } else {
     // the shirt's turned collar, the waistcoat over it, the coat over both
-    const cr = ringAt(neckR, 1.52), collar = [1.49, 1.515, 1.545].map((y, i) => ({ y, w: cr.w + [.01, .016, .018][i], f: cr.f + [.01, .016, .018][i], b: cr.b + [.009, .015, .017][i], z: (cr.z ?? 0) + .003, n: 2.1 }));
+    const cr = ringAt(neckR, 1.52), collar = [1.51, 1.535, 1.565].map((y, i) => ({ y, w: cr.w + [.01, .016, .018][i], f: cr.f + [.01, .016, .018][i], b: cr.b + [.009, .015, .017][i], z: (cr.z ?? 0) + .003, n: 2.1 }));
     put0(lifted, loft(collar, { seg: 12, lipEnd: .003, key: `shirtcollar/${dk}` }), shirtM);
     const vestBase = offset(rib, .013), vest = [1.125, 1.2, 1.3, 1.36, 1.43].map(y => ringAt(vestBase, y));
     put0(lifted, loft(vest, { seg: 10, lipEnd: .004, key: `vest/${dk}` }), vestM);
@@ -92,7 +92,7 @@ export function buildFigure(want: Look, opts: FigureOpts, kit: Kit) {
       for (const y of steps(1.42, 1.12, 3)) button(lifted, surface(coatR, y, .1, .0075), brass, .0085);
     }
     // collar (stood at the back, turned over at the front) and lapels that lie ON the chest and curve with it
-    const nc = ringAt(neckR, 1.52), cc = [1.488, 1.516, 1.552].map((y, i) => ({ y, w: nc.w + [.021, .03, .038][i], f: nc.f + [.021, .03, .036][i], b: nc.b + [.02, .03, .038][i], z: (nc.z ?? 0) + .004, n: 2.1 }));
+    const nc = ringAt(neckR, 1.52), cc = [1.508, 1.536, 1.572].map((y, i) => ({ y, w: nc.w + [.021, .03, .038][i], f: nc.f + [.021, .03, .036][i], b: nc.b + [.02, .03, .038][i], z: (nc.z ?? 0) + .004, n: 2.1 }));
     put0(lifted, loft(cc, { seg: 14, ...(closed ? { start: 0, arc: Math.PI * 2 } : { start: .7, arc: Math.PI * 2 - 1.4 }), lipEnd: .007, lipStart: .004, key: `collar/${dk}/${closed}` }), coatM);
     if (!closed) for (const [s, e] of [[1, g.aL], [-1, -g.aR]] as const) put0(lifted, plate(coatR, [[1.488, .25], [1.43, .5], [1.36, .55], [1.28, .45], [1.2, .18]].map(([y, w]) => [y, e, e + s * w]), .0, .007, 3), coatM);
     // the back is designed too: a centre seam, a yoke seam across the shoulder blades, a waist strap with two buttons

diff --git a/src/world/people/headform.ts b/src/world/people/headform.ts
@@ -54,8 +54,10 @@ export function skullTable(H: number, shape: Shape): number[][] {
     // half width: chin to jaw corner (rounded), jaw to cheekbone, then the ball
     let w: number;
     if (y <= L.jawY) { const u = y / L.jawY; w = chin * (.55 + .45 * Math.min(1, y / (.04 * H))) + (jaw - chin) * Math.pow(u, .92); }
-    else w = jaw + (a - jaw) * smooth(L.jawY, ANIME.eye * H + .02 * H, y);
-    w = y >= yc ? sph : Math.max(w, y > .3 * H ? sph : 0);
+    // above the jaw corner the width rises to the full width at the eye line along one curve whose slope only falls (below the slope under the corner, so the corner stays a corner):
+    // the outline runs convex from the jaw past the cheekbone to the temple, with no ledge where the side plane meets the jaw
+    else { const u = Math.min(1, (y - L.jawY) / (ANIME.eye * H + .02 * H - L.jawY)); w = jaw + (a - jaw) * (1 - (1 - u) * (1 - u)); }
+    w = y >= yc ? sph : Math.max(w, sph);
     // the face plane, chin to brow; the chin is carried a little forward of that line and the skin dips under the lower lip, so the profile has a chin and not only a corner
     const u = y / H, cb = .011 * H * Math.exp(-((u - .045) ** 2) / (2 * .03 * .03)) - .004 * H * Math.exp(-((u - .1) ** 2) / (2 * .018 * .018));
     const zf = y >= yc ? L.z0 + rho(y) : L.chinZ + (L.faceFront - L.chinZ) * Math.pow(y / yc, .8) + cb;

diff --git a/src/world/people/parts.ts b/src/world/people/parts.ts
@@ -52,7 +52,7 @@ export function button(g: T.Object3D, q: { p: T.Vector3; n: T.Vector3 }, m: T.Ma
 /** The neckerchief (and the scarf of the row coat): a band round the neck that is part of the torso, and a knot to one side of the throat with two tails that hang down the chest and
  *  swing with the walk (the scarf group). */
 export function kerchiefBand(g: T.Group, neckR: Ring[], m: T.Material, lift = 0) {
-  const r = ringAt(neckR, 1.51), z0 = (r.z ?? 0), up = lift, band = [1.482, 1.5, 1.52, 1.534].map((y, i) => ({ y: y + up * (i / 3), w: r.w + [.012, .02, .019, .012][i], f: r.f + [.011, .019, .018, .011][i], b: r.b + [.01, .018, .017, .01][i], z: z0 + .004, n: 2.1 }));
+  const r = ringAt(neckR, 1.51), z0 = (r.z ?? 0), up = lift, band = [1.502, 1.52, 1.54, 1.554].map((y, i) => ({ y: y + up * (i / 3), w: r.w + [.012, .02, .019, .012][i], f: r.f + [.011, .019, .018, .011][i], b: r.b + [.01, .018, .017, .01][i], z: z0 + .004, n: 2.1 }));
   put0(g, loft(band, { seg: 12, lipStart: .003, lipEnd: .004 }), m);
 }
 export function kerchiefTails(scarf: T.Group, m: T.Material, long: boolean, plain = false) {

diff --git a/tests/look.test.ts b/tests/look.test.ts
@@ -76,3 +76,12 @@ test('every story look resolves to its fixed table entry, whatever the seed, and
   }
   assert.throws(() => resolveLook(0, 'worker', { look: 'nobody' }));
 });
+
+test('a moustache or a beard belongs to a cast that wears one, at a modest rate: never dealt to the crowd at a third', () => {
+  const rows = all.map(r => r.look), hairy = (l: Look) => l.facial === 'moustache' || l.facial === 'beard';
+  for (const l of rows) if (hairy(l)) assert.ok(['elder', 'olderMechanic', 'garrison', 'inspector'].includes(l.cast), `${l.cast} with a ${l.facial}`);
+  const share = rows.filter(hairy).length / rows.length;
+  assert.ok(share < .12, `${(share * 100).toFixed(1)}% of the crowd has a moustache or beard`);
+  const mech = Array.from({ length: 2000 }, (_, s) => resolveLook(s, 'engineer', { cast: 'olderMechanic' }));
+  assert.ok(mech.filter(l => l.facial === 'moustache').length / mech.length > .35, 'the older mechanic (Book 9) mostly wears his moustache');
+});
